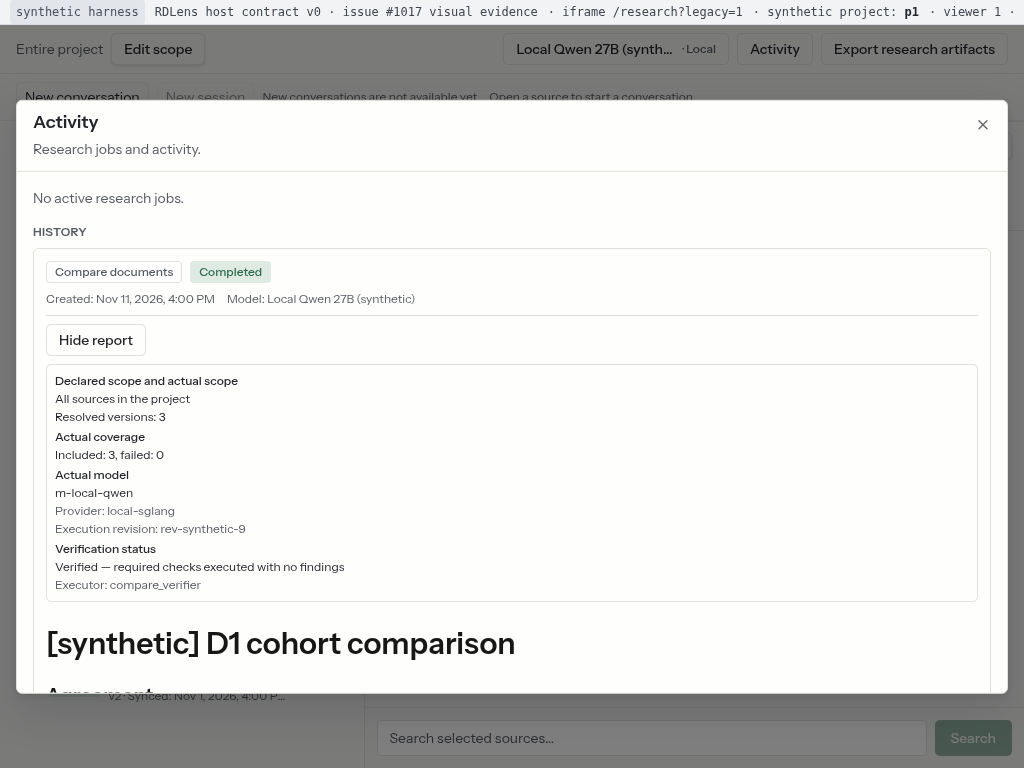
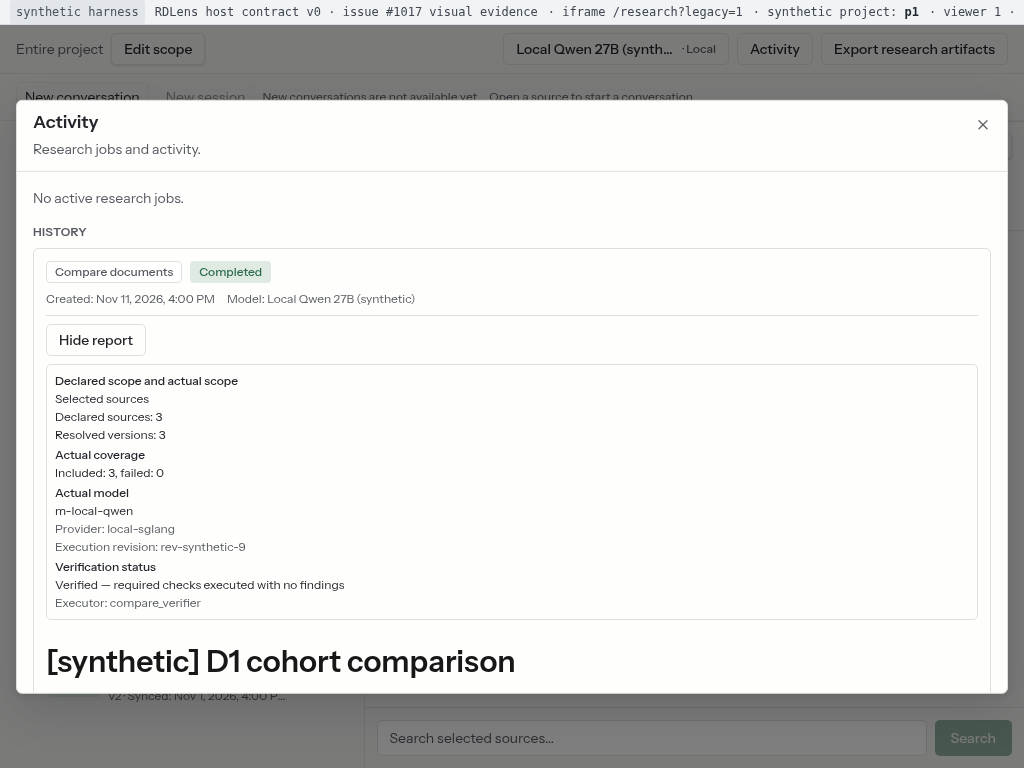
evidence(#1017): round-1 审查修复后重采 AFTER（声明来源数/coverage 诚实性）
- 重采 head = d80e074（MEDIUM-1 selected 声明范围「Declared sources: N」、
  LOW-2 畸形 coverage 显式未记录）；BEFORE 截图不变（d959635）。
- AFTER 断言 126 → 130 PASS / 0 FAIL；pass 场景改为 selected 声明范围以展示来源数。
- 修正 README「补充截图 3→4 张」笔误（LOW-3）；local-verification 更新为修复后输出
  （selected 204 tests、全量 3341 passed / 59 pre-existing failed、lint 66 同基线）。
- harness gateway/capture 增加 declared-sources / coverage 计数的 DOM 断言。

Changed region(s): [[0.0312, 0.5, 0.5, 0.875]]

diff --git a/dev_docs/validation/issue1017/harness/capture.js b/dev_docs/validation/issue1017/harness/capture.js
@@ -142,6 +142,9 @@ const HOOKS = {
   reportScope: '[data-testid="compare-report-scope"]',
   reportScopeEmpty: '[data-testid="compare-report-scope-empty"]',
   reportScopeResolved: '[data-testid="compare-report-scope-resolved"]',
+  reportScopeDeclaredSources: '[data-testid="compare-report-scope-declared-sources"]',
+  reportCoverageCounts: '[data-testid="compare-report-coverage-counts"]',
+  reportCoverageUnavailable: '[data-testid="compare-report-coverage-unavailable"]',
   reportModel: '[data-testid="compare-report-model"]',
   reportModelId: '[data-testid="compare-report-model-id"]',
   reportVerification: '[data-testid="compare-report-verification"]',
@@ -210,6 +213,9 @@ async function collectState(boot) {
       report_scope: await count(app, HOOKS.reportScope),
       report_scope_empty: await count(app, HOOKS.reportScopeEmpty),
       report_scope_resolved: await count(app, HOOKS.reportScopeResolved),
+      report_scope_declared_sources: await count(app, HOOKS.reportScopeDeclaredSources),
+      report_coverage_counts: await count(app, HOOKS.reportCoverageCounts),
+      report_coverage_unavailable: await count(app, HOOKS.reportCoverageUnavailable),
       report_model: await count(app, HOOKS.reportModel),
       report_verification: await count(app, HOOKS.reportVerification),
       report_restricted: await count(app, HOOKS.reportRestricted),
@@ -600,6 +606,25 @@ async function runReportScene(browser, width, height, { scene, reportMode, expec
       check('after_scope_missing_not_recorded', state.counts.report_scope_empty > 0, '>0', state.counts.report_scope_empty)
     } else {
       check('after_model_section', state.counts.report_model > 0, '>0', state.counts.report_model)
+    }
+    // MEDIUM-1：selected 声明范围展示「来源数」（pass 场景为 selected scope）；
+    // 真实覆盖计数（非畸形）走 counts 行。
+    if (expected.status === 'pass') {
+      check(
+        'after_declared_sources',
+        state.counts.report_scope_declared_sources > 0,
+        '>0',
+        state.counts.report_scope_declared_sources,
+      )
+      check(
+        'after_coverage_counts',
+        state.counts.report_coverage_counts > 0 && state.counts.report_coverage_unavailable === 0,
+        'counts>0 & unavailable=0',
+        JSON.stringify({
+          counts: state.counts.report_coverage_counts,
+          unavailable: state.counts.report_coverage_unavailable,
+        }),
+      )
     }
   }
   await boot.context.close()

diff --git a/dev_docs/validation/issue1017/harness/gateway_mock.js b/dev_docs/validation/issue1017/harness/gateway_mock.js
@@ -237,13 +237,16 @@ function reportModeDetail(reportMode) {
   }
   const verification =
     verificationByMode[reportMode] ?? verificationByMode.plain
+  // `pass` 场景用 selected 声明范围（3 个 provider source ids），用于展示
+  // 计划 §2.9「声明范围与实际范围」的「来源数」；其余场景保持 all。
+  const selectedScope = reportMode === 'pass'
   return {
     ...job,
     compare: {
       scope: {
         contract_version: 'c05-v1',
-        requested_mode: 'all',
-        source_ids: [],
+        requested_mode: selectedScope ? 'selected' : 'all',
+        source_ids: selectedScope ? SOURCES.map((source) => source.source_id) : [],
         resolved_refs: SOURCES.map((source) => ({
           document_id: source.document_id,
           document_version: source.document_version,
